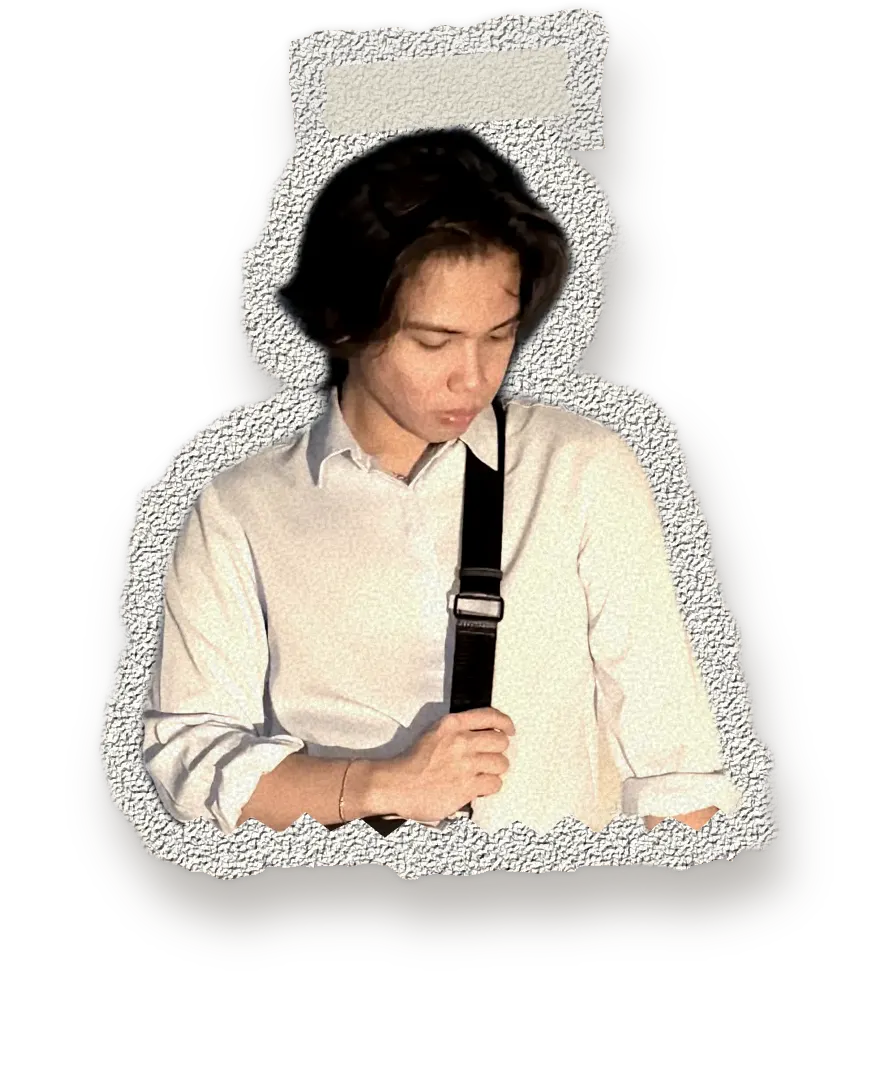
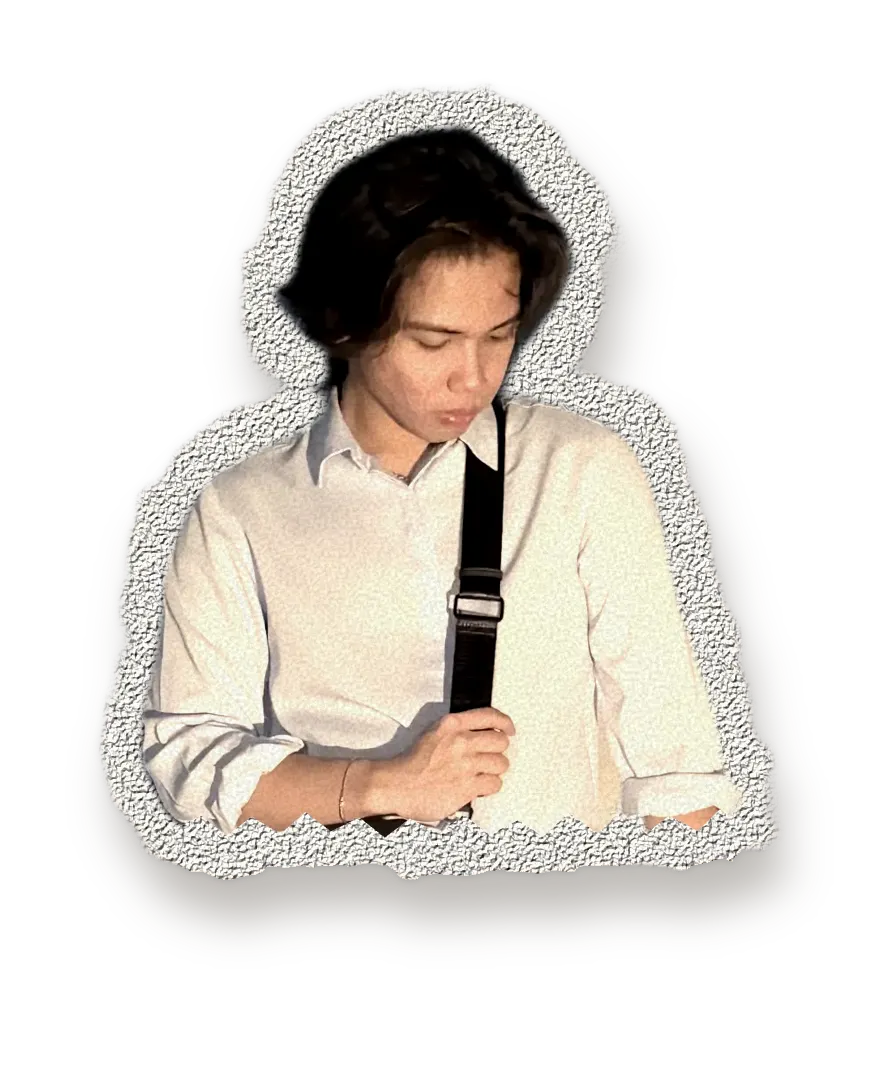
Hero photo: outline around Sean only, torn edge back on the red sheet
The sticker outline now wraps the photo only; the tape sits on top,
outside the outline (desktop and phone). The phone outline image is
re-rendered without the tape. The red sheet and small hero scraps get
their original torn paper edge back on phones.

Changed region(s): [[0.303, 0.0, 0.697, 0.1828]]

diff --git a/index.html b/index.html
@@ -220,8 +220,9 @@
     position:absolute;z-index:3;bottom:-10px;left:50%;
     height:min(76vh,700px);aspect-ratio:720/918;
     transform:translateX(-38%) rotate(-1.5deg);
-    filter:url(#sticker);
   }
+  /* the sticker outline wraps the photo only; the tape sits on top, outside the outline */
+  .hero-photo .stick{position:relative;width:100%;height:100%;filter:url(#sticker)}
   .hero-photo .cut{
     position:relative;width:100%;height:100%;
     -webkit-mask:var(--torn) 0 0/100% 100% no-repeat;mask:var(--torn) 0 0/100% 100% no-repeat;
@@ -706,12 +707,13 @@
     .torn::before{filter:none;clip-path:polygon(0 2%,4% 0,9% 2.5%,15% .5%,22% 2%,30% 0,37% 2.2%,44% .4%,52% 2%,60% 0,67% 2.4%,75% .6%,82% 2%,90% 0,96% 1.8%,100% 0,100% 97%,96% 100%,89% 97.6%,82% 99.6%,74% 97%,66% 100%,58% 97.8%,50% 99.4%,42% 97%,34% 100%,26% 97.6%,18% 99.6%,10% 97.2%,4% 100%,0 97.8%)}
     section.sheet-bg::before{filter:none;clip-path:polygon(0 1%,5% 0,11% 1.6%,18% .2%,26% 1.4%,34% 0,42% 1.2%,51% .3%,59% 1.5%,67% 0,75% 1.1%,83% .4%,91% 1.4%,100% 0,100% 99%,93% 100%,85% 98.6%,77% 100%,69% 98.8%,60% 100%,52% 98.4%,44% 100%,36% 98.8%,28% 100%,20% 98.6%,12% 100%,5% 98.9%,0 100%)}
     .ink{filter:none}
-    .hero-photo{filter:none}
-    /* hero photo: the sticker outline (rough white rim, tape, shadow) is pre-rendered from the desktop #sticker
-       filter into assets/me-sticker.webp, which covers the filter region (-12% / -8%, 124% x 118% of the photo box) */
+    .hero-photo .stick{filter:none}
+    /* hero photo: the sticker outline (rough white rim + shadow, around the photo only) is pre-rendered from the
+       desktop #sticker filter into assets/me-sticker.webp, which covers the filter region (-12% / -8%, 124% x 118%
+       of the photo box). The tape stays a live element on top, outside the outline. */
     .hero-photo .cut{-webkit-mask:none;mask:none}
     .hero-photo .cut img{position:absolute;left:-12%;top:-8%;width:124%;height:118%;max-width:none;object-fit:fill;filter:none}
-    .hero-photo .cut::after,.hero-photo .tape{display:none}
+    .hero-photo .cut::after{display:none}
     .sheet{-webkit-backdrop-filter:none;backdrop-filter:none;background-color:var(--vellum-solid)!important}
     .frame.cine.media .poster{filter:none}
     .frame.cine.media .shade{background:linear-gradient(90deg,rgba(8,7,6,.62),rgba(8,7,6,.15) 55%,transparent),linear-gradient(0deg,rgba(8,7,6,.55),transparent 50%),linear-gradient(180deg,rgba(8,7,6,.45),transparent 22%),rgba(8,7,6,.22)}
@@ -793,9 +795,9 @@
     .hero-photo .cut::after,.p-red::after{mix-blend-mode:normal}
     .print .photo div::after{display:none}
     .bleed,.bleed.big,.contact .bleed.big,.dymo{filter:none}
-    /* hero scraps (red sheet, grey and black pieces): plain cut edges with a soft paper shadow.
-       Only the photo of Sean keeps a torn edge (his call, 2026-11-27). */
-    .collage .torn::before{clip-path:none;box-shadow:1px 5px 8px -3px rgba(42,30,16,.3)}
+    /* hero scraps (red sheet, grey and black pieces) keep the original torn paper edge: the live #paper filter
+       on three small pieces that do not move after the intro (the zigzag clip-path looked wrong next to the photo) */
+    .collage .torn::before{clip-path:none;filter:url(#paper)}
   }
   @media (max-width:760px) and (prefers-color-scheme:dark){
     :root:not([data-theme="light"]){--grain:-webkit-image-set(url("assets/tex/grain-dark-2x.webp") 2x)}
@@ -1013,7 +1015,7 @@ little more.</div>
   <span aria-hidden="true" class="hand-note" style="left:calc(50% - 330px);top:calc(var(--name-size)*.86 + 120px);transform:rotate(-8deg)">that’s me</span>
 
   <figure class="hero-photo">
-    <div class="cut"><picture><source media="(max-width:760px)" srcset="assets/me-sticker.webp"><img src="assets/me.webp" alt="Sean Aragon" width="720" height="918" fetchpriority="high"></picture></div>
+    <div class="stick"><div class="cut"><picture><source media="(max-width:760px)" srcset="assets/me-sticker.webp"><img src="assets/me.webp" alt="Sean Aragon" width="720" height="918" fetchpriority="high"></picture></div></div>
     <span class="tape" aria-hidden="true"></span>
   </figure>
 
